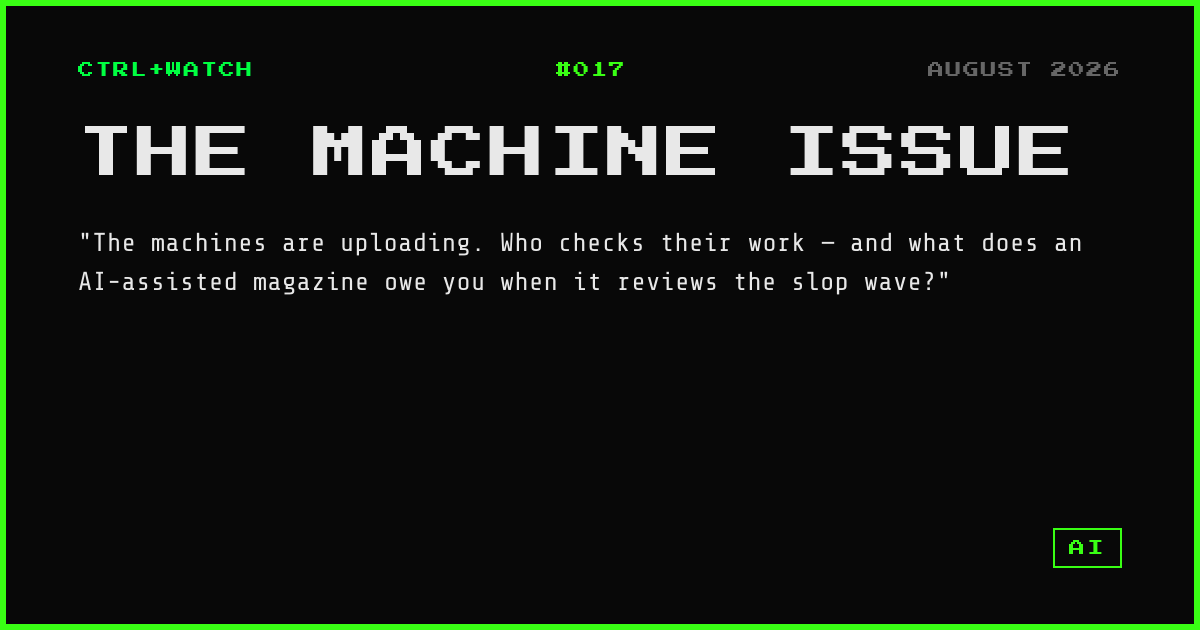
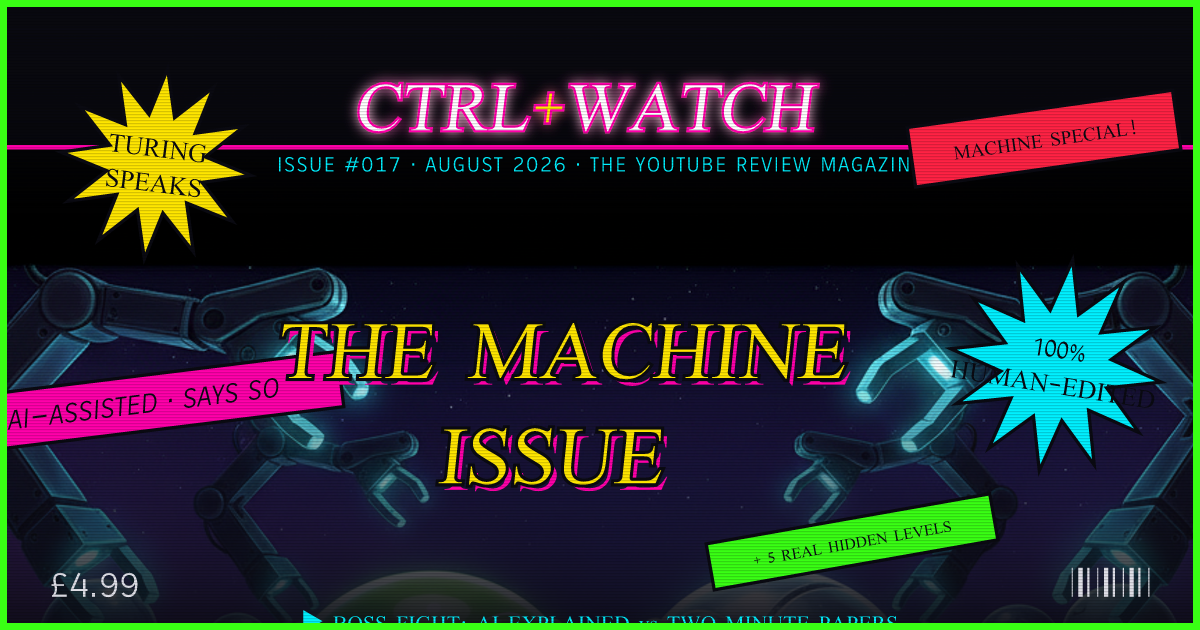
feat(covers): painted hero for #017 — Yob meets the machine
Candidate generated via the new hero:gen pipeline (nano-banana edit,
016-hero as the Yob reference), operator-picked (2 of 4). Splash/square/og
composited; verify green. Nose-to-nose with the chrome replica on the
assembly line — the issue's thesis in one frame.

diff --git a/src/data/issues.js b/src/data/issues.js
@@ -224,5 +224,20 @@ export const issues = [
     tag: 'AI',
     rating: null,
     published: true,
+    hero: 'heroes/017-hero.png',
+    coverStar: 'yob',
+    price: '£4.99',
+    coverLines: [
+      '▶ BOSS FIGHT: AI EXPLAINED vs TWO MINUTE PAPERS',
+      '▶ RIDDDLE: THE SLOP FACTORY SCORES 38',
+      '▶ HIDDEN LEVELS GOES REAL: 5 HUMAN CHANNELS',
+    ],
+    flashes: [
+      { kind: 'tab',       text: 'MACHINE SPECIAL!',          color: '#FF2244' },
+      { kind: 'starburst', text: 'TURING|SPEAKS',             color: '#FFE600' },
+      { kind: 'sizzler',   text: '100%|HUMAN-EDITED',         color: '#00F0FF' },
+      { kind: 'banner',    text: 'AI-ASSISTED · SAYS SO',     color: '#FF00AA' },
+      { kind: 'flash',     text: '+ 5 REAL HIDDEN LEVELS',    color: '#39FF14' },
+    ],
   },
 ];
